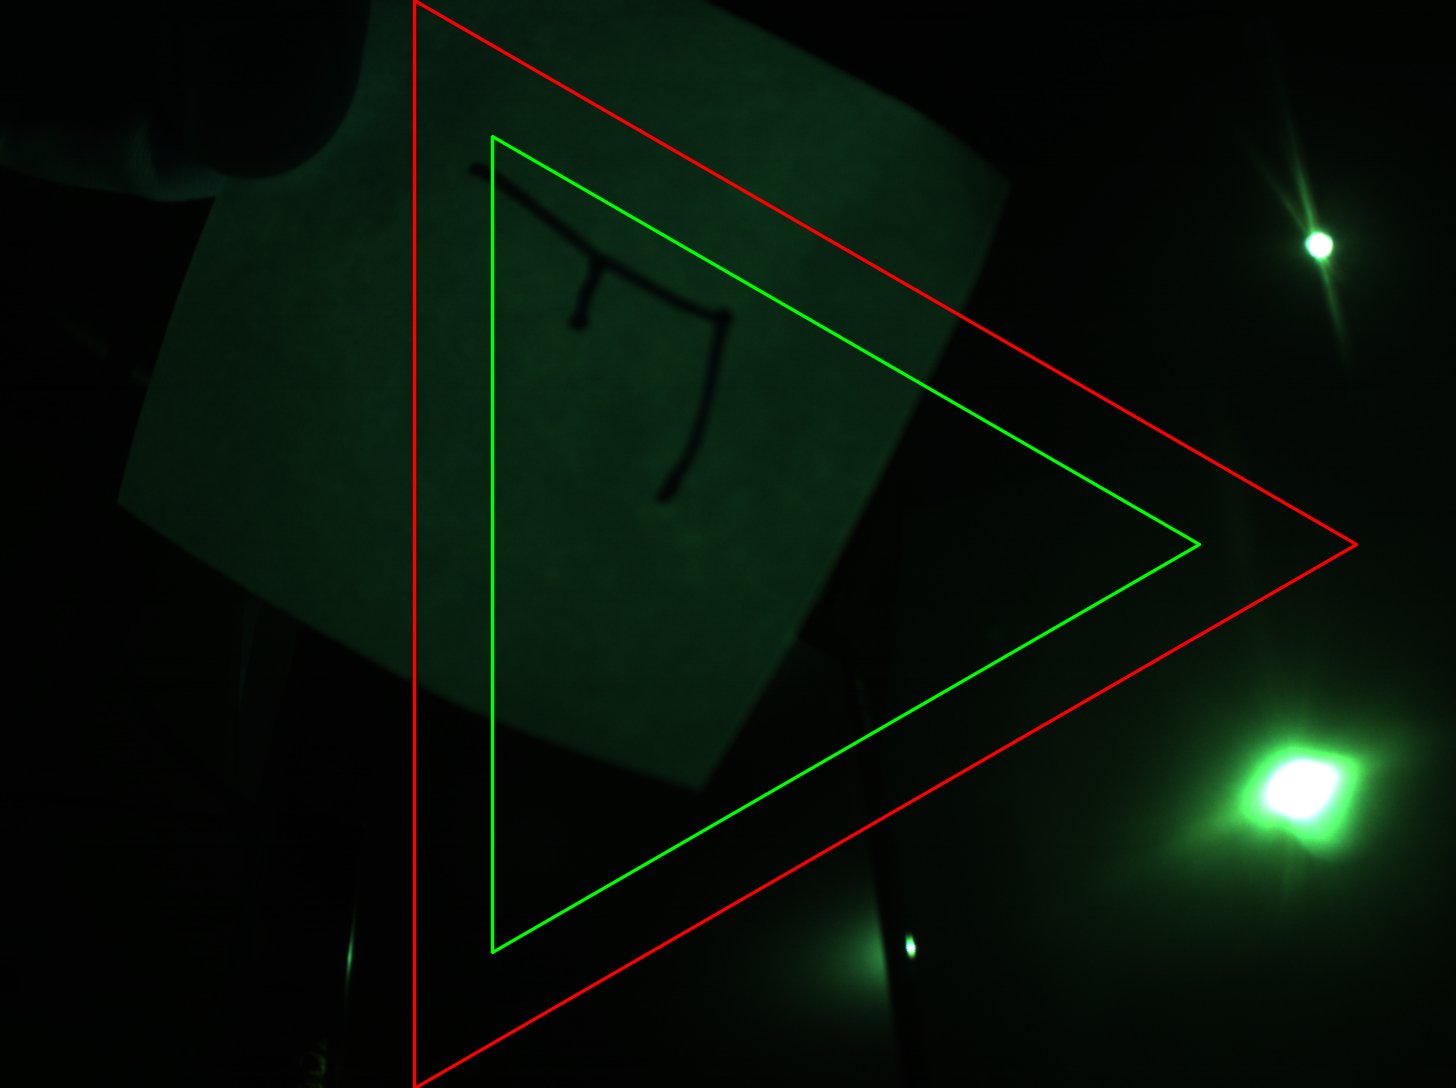
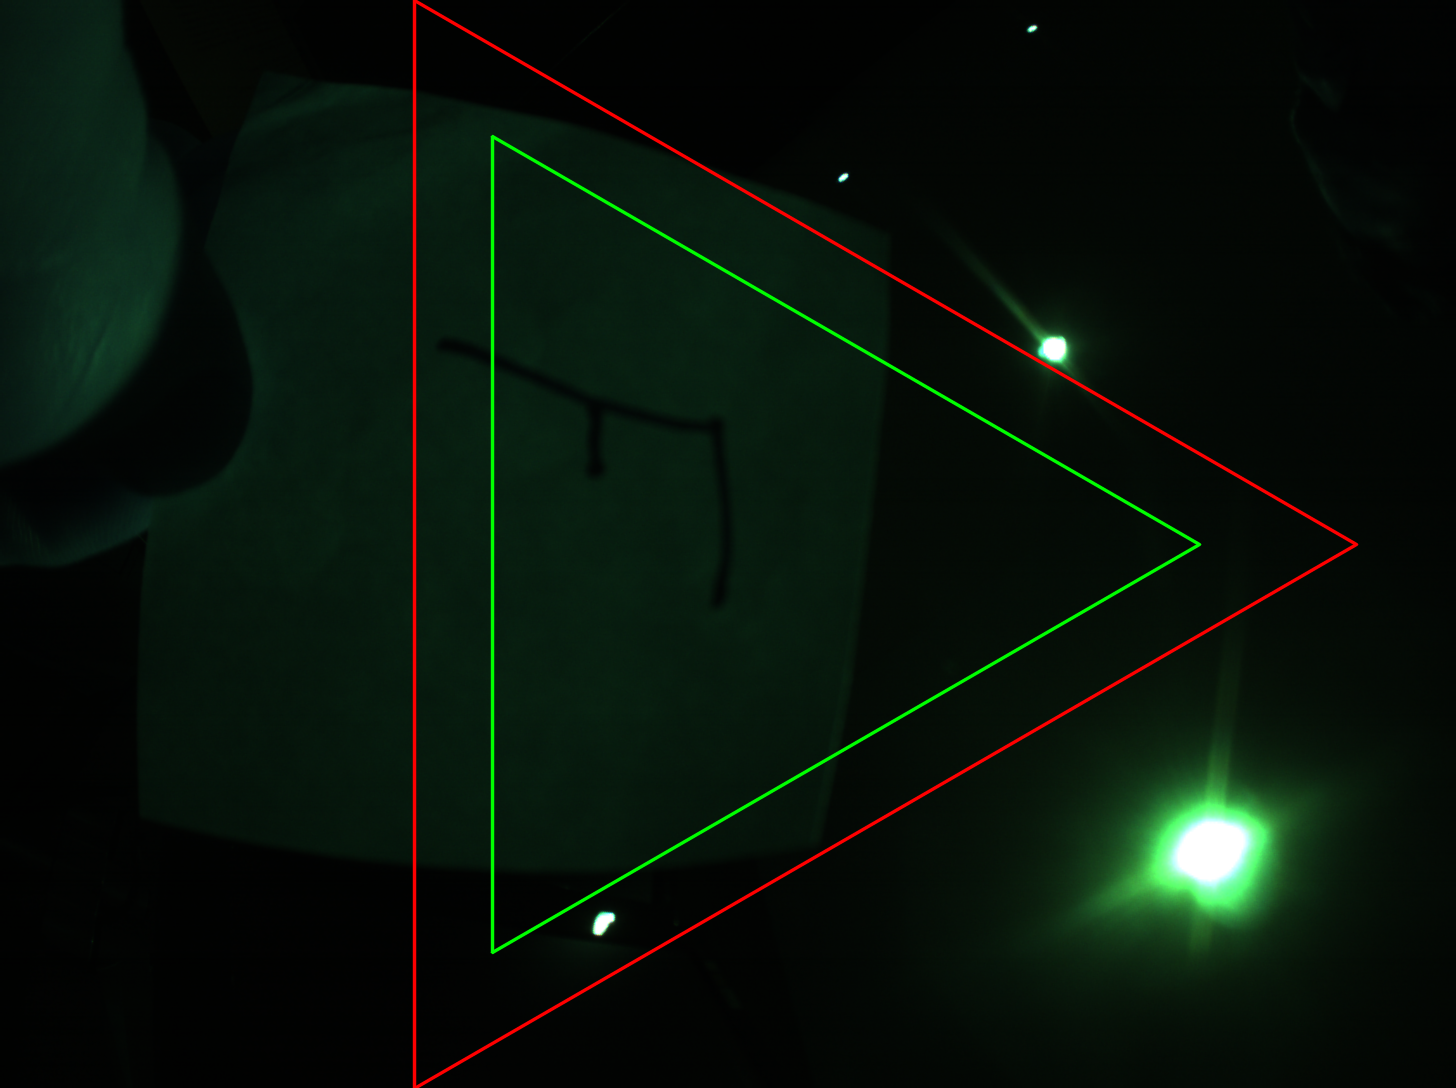
Mapping 4 cameras

diff --git a/software/src/common/topology/shapefunction/include/DASPi-module-spherical-basis.h b/software/src/common/topology/shapefunction/include/DASPi-module-spherical-basis.h
@@ -299,7 +299,7 @@ inline constexpr double CameraLocalRollDegForModule()
     if constexpr (ModuleIndex == 0) {
         return +60.0;
     } else if constexpr (ModuleIndex == 1) {
-        return +30.0+60;
+        return +60.0;
     } else if constexpr (ModuleIndex == 2) {
         return 0.0;
     } else {

diff --git a/software/src/computemodule/src/main.cpp b/software/src/computemodule/src/main.cpp
@@ -2104,7 +2104,7 @@ double CameraLocalRollDegForModule(int module)
 {
     switch (module) {
     case 0: return +60.0;
-    case 1: return +30.0+60;
+    case 1: return +60.0;
     case 2: return 0.0;
     case 3: return 0.0;
     default: return 0.0;
